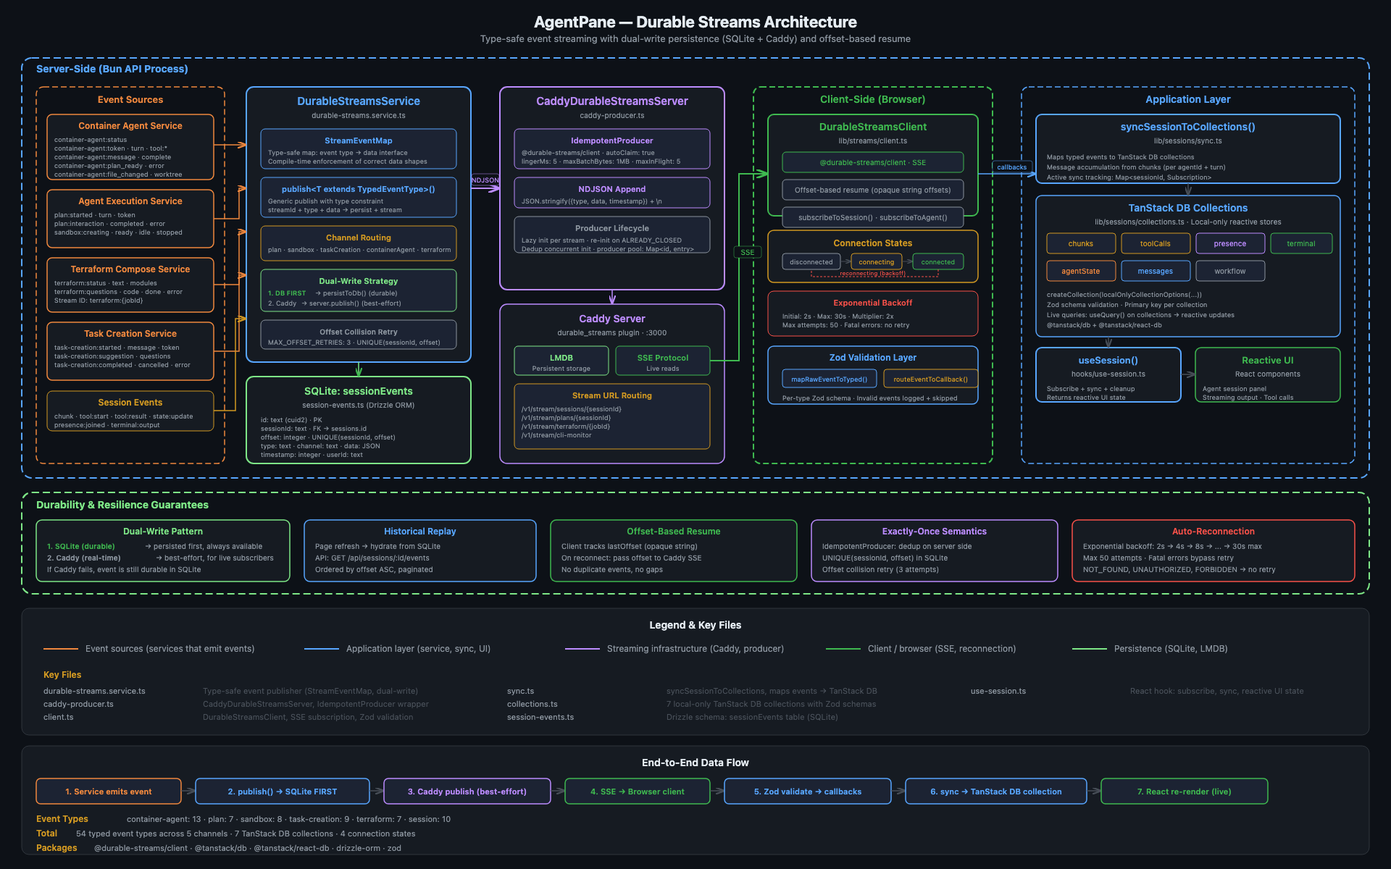
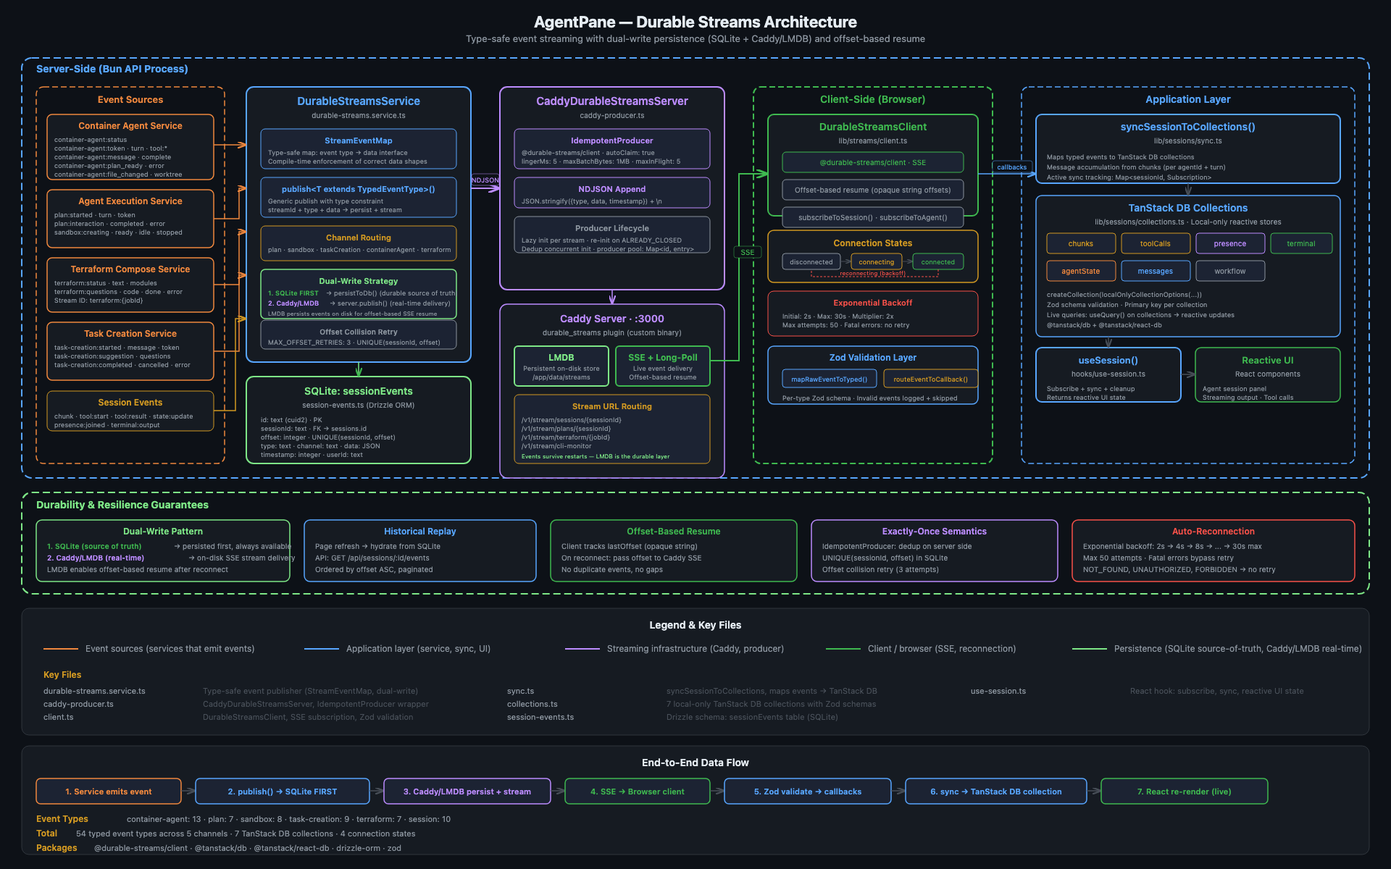
docs: clarify Caddy/LMDB role in architecture and durable streams diagrams
LMDB's role as the on-disk persistence layer for Caddy's durable_streams
plugin was not visible in the architecture diagrams or documented in the
markdown. Updated all three docs to show the dual-write pattern (SQLite
source-of-truth + Caddy/LMDB real-time delivery) and replaced stale
InMemoryDurableStreamsServer references with CaddyDurableStreamsServer.

diff --git a/docs/_durable-streams-architecture.html b/docs/_durable-streams-architecture.html
@@ -37,7 +37,7 @@ svg { display: block; }
 
 <!-- ==================== TITLE ==================== -->
 <text x="960" y="38" text-anchor="middle" fill="#e6edf3" font-size="22" font-weight="700">AgentPane — Durable Streams Architecture</text>
-<text x="960" y="58" text-anchor="middle" fill="#8b949e" font-size="13">Type-safe event streaming with dual-write persistence (SQLite + Caddy) and offset-based resume</text>
+<text x="960" y="58" text-anchor="middle" fill="#8b949e" font-size="13">Type-safe event streaming with dual-write persistence (SQLite + Caddy/LMDB) and offset-based resume</text>
 
 <!-- ==================== SERVER-SIDE ZONE ==================== -->
 <rect x="30" y="80" width="1860" height="580" rx="14" fill="none" stroke="#58a6ff" stroke-width="2" stroke-dasharray="10,5"/>
@@ -106,12 +106,13 @@ svg { display: block; }
 <text x="370" y="348" fill="#8b949e" font-size="9">plan · sandbox · taskCreation · containerAgent · terraform</text>
 
 <!-- Dual-write strategy -->
-<rect x="360" y="372" width="270" height="58" rx="6" fill="#1c2333" stroke="#7ee787" stroke-width="1"/>
+<rect x="360" y="372" width="270" height="68" rx="6" fill="#1c2333" stroke="#7ee787" stroke-width="1.5"/>
 <text x="495" y="392" text-anchor="middle" fill="#7ee787" font-size="11" font-weight="600">Dual-Write Strategy</text>
-<text x="370" y="408" fill="#3fb950" font-size="9" font-weight="600">1. DB FIRST</text>
-<text x="435" y="408" fill="#8b949e" font-size="9">→ persistToDb() (durable)</text>
-<text x="370" y="422" fill="#8b949e" font-size="9">2. Caddy</text>
-<text x="416" y="422" fill="#8b949e" font-size="9">→ server.publish() (best-effort)</text>
+<text x="370" y="408" fill="#3fb950" font-size="9" font-weight="600">1. SQLite FIRST</text>
+<text x="450" y="408" fill="#8b949e" font-size="9">→ persistToDb() (durable source of truth)</text>
+<text x="370" y="422" fill="#bc8cff" font-size="9" font-weight="600">2. Caddy/LMDB</text>
+<text x="455" y="422" fill="#8b949e" font-size="9">→ server.publish() (real-time delivery)</text>
+<text x="370" y="436" fill="#8b949e" font-size="8">LMDB persists events on disk for offset-based SSE resume</text>
 
 <!-- Offset collision retry -->
 <rect x="360" y="442" width="270" height="40" rx="6" fill="#1c2333" stroke="#8b949e" stroke-width="1"/>
@@ -155,27 +156,30 @@ svg { display: block; }
 <text x="720" y="347" fill="#8b949e" font-size="9">Dedup concurrent init · producer pool: Map&lt;id, entry&gt;</text>
 
 <!-- Caddy Server -->
-<rect x="690" y="420" width="310" height="220" rx="10" fill="#161b22" stroke="#bc8cff" stroke-width="1.5"/>
-<text x="845" y="445" text-anchor="middle" fill="#bc8cff" font-size="14" font-weight="600">Caddy Server</text>
-<text x="845" y="463" text-anchor="middle" fill="#8b949e" font-size="10">durable_streams plugin · :3000</text>
+<rect x="690" y="420" width="310" height="240" rx="10" fill="#161b22" stroke="#bc8cff" stroke-width="1.5"/>
+<text x="845" y="445" text-anchor="middle" fill="#bc8cff" font-size="14" font-weight="600">Caddy Server · :3000</text>
+<text x="845" y="463" text-anchor="middle" fill="#8b949e" font-size="10">durable_streams plugin (custom binary)</text>
 
 <!-- LMDB -->
-<rect x="710" y="478" width="130" height="40" rx="5" fill="#1c2333" stroke="#7ee787" stroke-width="1"/>
-<text x="775" y="498" text-anchor="middle" fill="#7ee787" font-size="11" font-weight="600">LMDB</text>
-<text x="775" y="512" text-anchor="middle" fill="#8b949e" font-size="9">Persistent storage</text>
+<rect x="710" y="478" width="130" height="55" rx="5" fill="#1c2333" stroke="#7ee787" stroke-width="2"/>
+<text x="775" y="498" text-anchor="middle" fill="#7ee787" font-size="12" font-weight="700">LMDB</text>
+<text x="775" y="512" text-anchor="middle" fill="#8b949e" font-size="9">Persistent on-disk store</text>
+<text x="775" y="524" text-anchor="middle" fill="#8b949e" font-size="9">/app/data/streams</text>
 
-<!-- SSE -->
-<rect x="850" y="478" width="130" height="40" rx="5" fill="#1c2333" stroke="#3fb950" stroke-width="1"/>
-<text x="915" y="498" text-anchor="middle" fill="#3fb950" font-size="11" font-weight="600">SSE Protocol</text>
-<text x="915" y="512" text-anchor="middle" fill="#8b949e" font-size="9">Live reads</text>
+<!-- SSE + Long-Poll -->
+<rect x="850" y="478" width="130" height="55" rx="5" fill="#1c2333" stroke="#3fb950" stroke-width="2"/>
+<text x="915" y="498" text-anchor="middle" fill="#3fb950" font-size="12" font-weight="700">SSE + Long-Poll</text>
+<text x="915" y="512" text-anchor="middle" fill="#8b949e" font-size="9">Live event delivery</text>
+<text x="915" y="524" text-anchor="middle" fill="#8b949e" font-size="9">Offset-based resume</text>
 
 <!-- Stream URL routing -->
-<rect x="710" y="530" width="270" height="90" rx="6" fill="#1c2333" stroke="#d29922" stroke-width="1"/>
-<text x="845" y="550" text-anchor="middle" fill="#d29922" font-size="11" font-weight="600">Stream URL Routing</text>
-<text x="720" y="568" fill="#8b949e" font-size="9">/v1/stream/sessions/{sessionId}</text>
-<text x="720" y="580" fill="#8b949e" font-size="9">/v1/stream/plans/{sessionId}</text>
-<text x="720" y="592" fill="#8b949e" font-size="9">/v1/stream/terraform/{jobId}</text>
-<text x="720" y="604" fill="#8b949e" font-size="9">/v1/stream/cli-monitor</text>
+<rect x="710" y="545" width="270" height="95" rx="6" fill="#1c2333" stroke="#d29922" stroke-width="1"/>
+<text x="845" y="565" text-anchor="middle" fill="#d29922" font-size="11" font-weight="600">Stream URL Routing</text>
+<text x="720" y="583" fill="#8b949e" font-size="9">/v1/stream/sessions/{sessionId}</text>
+<text x="720" y="595" fill="#8b949e" font-size="9">/v1/stream/plans/{sessionId}</text>
+<text x="720" y="607" fill="#8b949e" font-size="9">/v1/stream/terraform/{jobId}</text>
+<text x="720" y="619" fill="#8b949e" font-size="9">/v1/stream/cli-monitor</text>
+<text x="720" y="633" fill="#7ee787" font-size="8">Events survive restarts — LMDB is the durable layer</text>
 
 <!-- Connection: CaddyServer -> Producer -->
 <line x1="845" y1="400" x2="845" y2="420" stroke="#bc8cff" stroke-width="1.5" marker-end="url(#arrow-purple)"/>
@@ -334,11 +338,11 @@ svg { display: block; }
 <!-- Dual-write box -->
 <rect x="50" y="718" width="350" height="85" rx="8" fill="#161b22" stroke="#7ee787" stroke-width="1.5"/>
 <text x="225" y="738" text-anchor="middle" fill="#7ee787" font-size="12" font-weight="600">Dual-Write Pattern</text>
-<text x="65" y="758" fill="#3fb950" font-size="10" font-weight="600">1. SQLite (durable)</text>
-<text x="200" y="758" fill="#8b949e" font-size="10">→ persisted first, always available</text>
-<text x="65" y="774" fill="#8b949e" font-size="10" font-weight="600">2. Caddy (real-time)</text>
-<text x="215" y="774" fill="#8b949e" font-size="10">→ best-effort, for live subscribers</text>
-<text x="65" y="790" fill="#8b949e" font-size="10">If Caddy fails, event is still durable in SQLite</text>
+<text x="65" y="758" fill="#3fb950" font-size="10" font-weight="600">1. SQLite (source of truth)</text>
+<text x="240" y="758" fill="#8b949e" font-size="10">→ persisted first, always available</text>
+<text x="65" y="774" fill="#bc8cff" font-size="10" font-weight="600">2. Caddy/LMDB (real-time)</text>
+<text x="260" y="774" fill="#8b949e" font-size="10">→ on-disk SSE stream delivery</text>
+<text x="65" y="790" fill="#8b949e" font-size="10">LMDB enables offset-based resume after reconnect</text>
 
 <!-- Replay box -->
 <rect x="420" y="718" width="320" height="85" rx="8" fill="#161b22" stroke="#58a6ff" stroke-width="1.5"/>
@@ -386,7 +390,7 @@ svg { display: block; }
 <text x="1198" y="900" fill="#8b949e" font-size="12">Client / browser (SSE, reconnection)</text>
 
 <line x1="1480" y1="896" x2="1528" y2="896" stroke="#7ee787" stroke-width="2"/>
-<text x="1538" y="900" fill="#8b949e" font-size="12">Persistence (SQLite, LMDB)</text>
+<text x="1538" y="900" fill="#8b949e" font-size="12">Persistence (SQLite source-of-truth, Caddy/LMDB real-time)</text>
 
 <!-- Key files - row 2 -->
 <text x="60" y="936" fill="#d29922" font-size="12" font-weight="600">Key Files</text>
@@ -428,7 +432,7 @@ svg { display: block; }
 <line x1="510" y1="1092" x2="530" y2="1092" stroke="#484f58" stroke-width="1.5" marker-end="url(#arrow-gray)"/>
 
 <rect x="530" y="1075" width="230" height="35" rx="6" fill="#1c2333" stroke="#bc8cff" stroke-width="1.5"/>
-<text x="645" y="1097" text-anchor="middle" fill="#bc8cff" font-size="11" font-weight="600">3. Caddy publish (best-effort)</text>
+<text x="645" y="1097" text-anchor="middle" fill="#bc8cff" font-size="11" font-weight="600">3. Caddy/LMDB persist + stream</text>
 
 <line x1="760" y1="1092" x2="780" y2="1092" stroke="#484f58" stroke-width="1.5" marker-end="url(#arrow-gray)"/>
 

diff --git a/docs/_architecture-diagram.html b/docs/_architecture-diagram.html
@@ -54,7 +54,7 @@ svg { display: block; }
 <!-- Caddy -->
 <rect x="70" y="158" width="700" height="48" rx="8" fill="#161b22" stroke="#3fb950" stroke-width="1.5"/>
 <text x="420" y="179" text-anchor="middle" fill="#3fb950" font-size="15" font-weight="600">Caddy</text>
-<text x="420" y="196" text-anchor="middle" fill="#8b949e" font-size="11">:3000 · reverse proxy · static files</text>
+<text x="420" y="196" text-anchor="middle" fill="#8b949e" font-size="11">:3000 · reverse proxy · static files · durable_streams plugin (LMDB)</text>
 
 <!-- Connections from Caddy -->
 <line x1="230" y1="206" x2="230" y2="240" stroke="#484f58" stroke-width="1.5" marker-end="url(#arrow-gray)"/>
@@ -71,7 +71,7 @@ svg { display: block; }
 <!-- Durable Streams -->
 <rect x="480" y="240" width="290" height="48" rx="8" fill="#161b22" stroke="#bc8cff" stroke-width="1.5"/>
 <text x="625" y="261" text-anchor="middle" fill="#bc8cff" font-size="15" font-weight="600">Durable Streams</text>
-<text x="625" y="278" text-anchor="middle" fill="#8b949e" font-size="11">Caddy plugin · :1969</text>
+<text x="625" y="278" text-anchor="middle" fill="#8b949e" font-size="11">LMDB persistence · SSE + long-poll · /v1/stream/*</text>
 
 <!-- Connection: Hono -> Durable Streams -->
 <line x1="430" y1="264" x2="480" y2="264" stroke="#484f58" stroke-width="1.5" stroke-dasharray="6,3"/>

diff --git a/docs/durable-streams-architecture.md b/docs/durable-streams-architecture.md
@@ -6,12 +6,21 @@ This document describes the architecture of the Durable Streams system used for 
 
 Durable Streams provides a unified system for:
 
-- Real-time event streaming during active sessions
-- Persistent event storage for historical replay
-- Offset-based resumability for reconnection handling
+- Real-time event streaming during active sessions via Caddy's `durable_streams` plugin backed by **LMDB**
+- Persistent event storage for historical replay (SQLite source of truth)
+- Offset-based resumability for reconnection handling (LMDB enables resume from last offset)
 - Multi-channel event categorization
 - Optimistic UI updates with rollback support
 - TanStack DB collections for reactive state
+
+### Dual Persistence Model
+
+Events are written to **two** persistent stores:
+
+1. **SQLite** (source of truth) — Drizzle ORM `sessionEvents` table. Persisted first, always available for historical queries via `/api/sessions/:id/events`.
+2. **Caddy/LMDB** (real-time delivery) — The Caddy `durable_streams` plugin stores events in LMDB on disk at `/app/data/streams`. This powers the SSE + long-poll endpoints at `/v1/stream/*` and enables offset-based resume after client reconnects.
+
+If Caddy/LMDB is temporarily unavailable, events are still durable in SQLite. LMDB is not a cache — it is an on-disk persistent store that survives Caddy restarts.
 
 ## Architecture Diagram
 
@@ -155,25 +164,25 @@ Durable Streams provides a unified system for:
 │  └───────────────────────────────────────────────────────┼────┼────────────────┘│
 │                                                          │    │                  │
 │  ┌───────────────────────────────────┐   ┌───────────────┼────┼───────────────┐ │
-│  │ InMemoryDurableStreamsServer      │   │         SQLite│Database           │ │
-│  │                                   │   │               │    │               │ │
-│  │  Interface:                       │   │  ┌────────────┼────▼─────────────┐ │ │
-│  │  ┌─────────────────────────────┐  │   │  │     session_events           │ │ │
-│  │  │ createStream(id, schema)    │  │   │  │  ├─ id (PK)                  │ │ │
+│  │ CaddyDurableStreamsServer         │   │         SQLite│Database           │ │
+│  │ (caddy-producer.ts)               │   │               │    │               │ │
+│  │                                   │   │  ┌────────────┼────▼─────────────┐ │ │
+│  │  Caddy Plugin Interface:          │   │  │     session_events           │ │ │
+│  │  ┌─────────────────────────────┐  │   │  │  ├─ id (PK)                  │ │ │
 │  │  │ publish(id, type, data) ◄───┼──┼───┼──│  ├─ session_id (FK)          │ │ │
-│  │  │   → returns offset          │  │   │  │  ├─ offset (sequential)      │ │ │
-│  │  │ subscribe(id, options)      │  │   │  │  ├─ type                     │ │ │
-│  │  │   → AsyncIterable<Event>    │  │   │  │  ├─ channel                  │ │ │
-│  │  │ getEvents(id, options)      │  │   │  │  ├─ data (JSON)              │ │ │
-│  │  │ deleteStream(id)            │  │   │  │  ├─ timestamp                │ │ │
-│  │  └─────────────────────────────┘  │   │  │  └─ created_at               │ │ │
-│  │                                   │   │  └──────────────────────────────┘ │ │
-│  │  In-Memory (real-time only):      │   │                                   │ │
-│  │  ┌─────────────────────────────┐  │   │  ┌──────────────────────────────┐ │ │
-│  │  │ Map<streamId, {             │  │   │  │    session_summaries         │ │ │
-│  │  │   events: StoredEvent[],    │  │   │  │  ├─ id (PK)                  │ │ │
-│  │  │   subscribers: Set          │  │   │  │  ├─ session_id (FK,UQ)       │ │ │
-│  │  │ }>                          │  │   │  │  ├─ duration_ms              │ │ │
+│  │  │   → NDJSON to Caddy         │  │   │  │  ├─ offset (sequential)      │ │ │
+│  │  │ IdempotentProducer           │  │   │  │  ├─ type                     │ │ │
+│  │  │   → @durable-streams/client  │  │   │  │  ├─ channel                  │ │ │
+│  │  └─────────────────────────────┘  │   │  │  ├─ data (JSON)              │ │ │
+│  │                                   │   │  │  ├─ timestamp                │ │ │
+│  │  Caddy Server (:3000):            │   │  │  └─ created_at               │ │ │
+│  │  ┌─────────────────────────────┐  │   │  └──────────────────────────────┘ │ │
+│  │  │ LMDB on-disk persistence    │  │   │                                   │ │
+│  │  │   /app/data/streams         │  │   │  ┌──────────────────────────────┐ │ │
+│  │  │ SSE + long-poll delivery    │  │   │  │    session_summaries         │ │ │
+│  │  │ Offset-based resume from    │  │   │  │  ├─ id (PK)                  │ │ │
+│  │  │   last client offset        │  │   │  │  ├─ session_id (FK,UQ)       │ │ │
+│  │  │ /v1/stream/* endpoints      │  │   │  │  ├─ duration_ms              │ │ │
 │  │  └─────────────────────────────┘  │   │  │  ├─ turns_count, etc.        │ │ │
 │  └───────────────────────────────────┘   │  └──────────────────────────────┘ │ │
 │                                          └───────────────────────────────────┘ │
@@ -249,21 +258,22 @@ Server event types map to client channels:
 
 ```
 ┌─────────┐    ┌───────────────────┐    ┌──────────┐    ┌───────────────┐    ┌────────────────┐
-│  Agent  │───►│  DurableStreams   │───►│  SQLite  │───►│    In-Memory  │───►│   Subscriber   │
-│  SDK    │    │  Service.publish()│    │  Events  │    │    Stream     │    │   (SSE)        │
+│  Agent  │───►│  DurableStreams   │───►│  SQLite  │───►│  Caddy/LMDB   │───►│   Subscriber   │
+│  SDK    │    │  Service.publish()│    │  Events  │    │  (on-disk)    │    │   (SSE)        │
 └─────────┘    └───────────────────┘    └──────────┘    └───────────────┘    └────────────────┘
      │               │                       │                 │                    │
      │  emit event   │  1. persist to DB     │                 │                    │
      │──────────────►│──────────────────────►│                 │                    │
      │               │                       │                 │                    │
-     │               │  2. publish to memory │                 │  notify            │  yield event
-     │               │─────────────────────────────────────────►│───────────────────►│
+     │               │  2. publish to Caddy  │                 │  LMDB write        │  SSE event
+     │               │──────────────────────────────────────────►│───────────────────►│
      │               │                       │                 │                    │
 ```
 
-**Persist-First Pattern**: Events are written to SQLite BEFORE being published to the in-memory
-stream. This ensures durability - events survive server restarts or crashes, and are always
-available via the `/api/sessions/:id/events` endpoint.
+**Persist-First Pattern**: Events are written to SQLite BEFORE being published to Caddy/LMDB.
+SQLite is the source of truth for historical queries. Caddy's `durable_streams` plugin persists
+events to LMDB on disk and delivers them to SSE/long-poll subscribers. LMDB enables offset-based
+resume — clients reconnect with their last offset and Caddy replays missed events from LMDB.
 
 ### Client Write Flow (Optimistic Updates)
 
@@ -357,25 +367,28 @@ const unsub = syncSessionToCollections(sessionId);
 unsub();
 ```
 
-### 4. InMemoryDurableStreamsServer (`src/lib/streams/server.ts`)
+### 4. CaddyDurableStreamsServer (`src/lib/streams/caddy-producer.ts`)
 
-Server-side stream management:
+Server-side stream management via Caddy's `durable_streams` plugin:
 
 ```typescript
-interface DurableStreamsServer {
-  createStream(id: string, schema: unknown): Promise<void>;
-  publish(id: string, type: string, data: unknown): Promise<number>;  // Returns offset
-  subscribe(id: string, options?: { fromOffset?: number }): AsyncIterable<Event>;
-  getEvents(id: string, options?: { offset?: number; limit?: number }): Promise<Event[]>;
+// IdempotentProducer from @durable-streams/client
+// Publishes NDJSON events to Caddy which persists them in LMDB
+interface CaddyDurableStreamsServer {
+  publish(streamId: string, type: string, data: unknown): Promise<void>;
+  isConnected(): boolean;
 }
 ```
 
 **Implementation details:**
 
-- In-memory event storage (Map of streams)
-- Sequential offset assignment per stream
-- Subscriber notification via async iterables
-- Auto-creates stream on first publish
+- Events published as NDJSON to Caddy's `/v1/stream/*` endpoints
+- Caddy persists events to **LMDB** on disk at `/app/data/streams`
+- LMDB provides durable, ordered storage that survives Caddy restarts
+- SSE + long-poll delivery to subscribers with offset-based resume
+- IdempotentProducer handles batching (lingerMs: 5, maxBatchBytes: 1MB)
+- Lazy producer initialization per stream with dedup of concurrent init
+- Producer pool: `Map<streamId, { producer, initPromise }>`
 
 ### 5. Session Services (`src/services/session/`)
 
@@ -528,8 +541,8 @@ src/
 
 ### Persist-First Publishing
 
-Events are persisted to the database BEFORE being published to the in-memory stream.
-This ensures durability at the cost of slightly higher latency:
+Events are persisted to SQLite BEFORE being published to Caddy/LMDB.
+This ensures the source of truth is always consistent:
 
 ```typescript
 // 1. Get next offset from database
@@ -539,7 +552,7 @@ const lastEvent = await db.query.sessionEvents.findFirst({
 });
 const offset = (lastEvent?.offset ?? -1) + 1;
 
-// 2. PERSIST TO DATABASE FIRST (ensures durability)
+// 2. PERSIST TO SQLITE FIRST (source of truth)
 await db.insert(sessionEvents).values({
   id: eventId,
   sessionId: streamId,
@@ -550,16 +563,16 @@ await db.insert(sessionEvents).values({
   timestamp,
 });
 
-// 3. THEN publish to in-memory stream for real-time delivery
+// 3. THEN publish to Caddy/LMDB for real-time SSE delivery
 await server.publish(streamId, type, data);
+// Caddy persists to LMDB on disk and fans out to SSE subscribers
 ```
 
-**Why persist-first?**
+**Why dual-write (SQLite + Caddy/LMDB)?**
 
-- Events survive server restarts and crashes
-- `/api/sessions/:id/events` always returns complete history
-- Container agent errors (e.g., EPIPE) don't lose events
-- SSE reconnection can replay from database if in-memory stream is empty
+- **SQLite**: Source of truth. Events survive server restarts and crashes. `/api/sessions/:id/events` always returns complete history. Used for historical replay of closed sessions.
+- **Caddy/LMDB**: Real-time delivery layer. LMDB is an on-disk persistent store (not a cache). Enables offset-based SSE resume — clients reconnect with their last offset and Caddy replays missed events directly from LMDB without hitting SQLite. Long-poll timeout: 30s, SSE reconnect interval: 120s.
+- If Caddy is temporarily unavailable, events are still durable in SQLite
 
 ### Channel Routing
 
@@ -596,20 +609,21 @@ this.presenceService.join(sessionId, userId);
 
 ## Production Considerations
 
-**Current implementation (persist-first with in-memory real-time):**
+**Current implementation (persist-first with Caddy/LMDB real-time):**
 
-- Events persisted to SQLite survive server restarts
-- In-memory stream provides real-time SSE delivery
-- Single-process only (no clustering)
-- SQLite handles persistence; in-memory handles real-time fan-out
+- Events persisted to SQLite (source of truth) survive server restarts
+- Caddy `durable_streams` plugin with LMDB provides durable real-time SSE delivery
+- LMDB is an on-disk store — events survive Caddy restarts too
+- Caddy runs on `:3000` as the front door; Bun API on `:3001` (internal)
+- IdempotentProducer handles batching and dedup for Caddy writes
 
 **For production scaling, consider:**
 
-- Replace InMemoryDurableStreamsServer with Redis pub/sub for real-time fan-out
-- Keep SQLite persistence or migrate to PostgreSQL for durability
-- Implement proper clustering via message broker
+- Keep SQLite or migrate to PostgreSQL for the source of truth
+- Caddy/LMDB already handles real-time fan-out durably (no Redis needed for SSE)
+- For multi-instance deployments, configure shared LMDB volume or switch to distributed stream backend
 - Add authentication validation against real auth service (Phase 2)
-- Load balancing with sticky sessions or pub/sub
+- Load balancing with sticky sessions (Caddy SSE connections are long-lived)
 
 ## Future Enhancements
 
